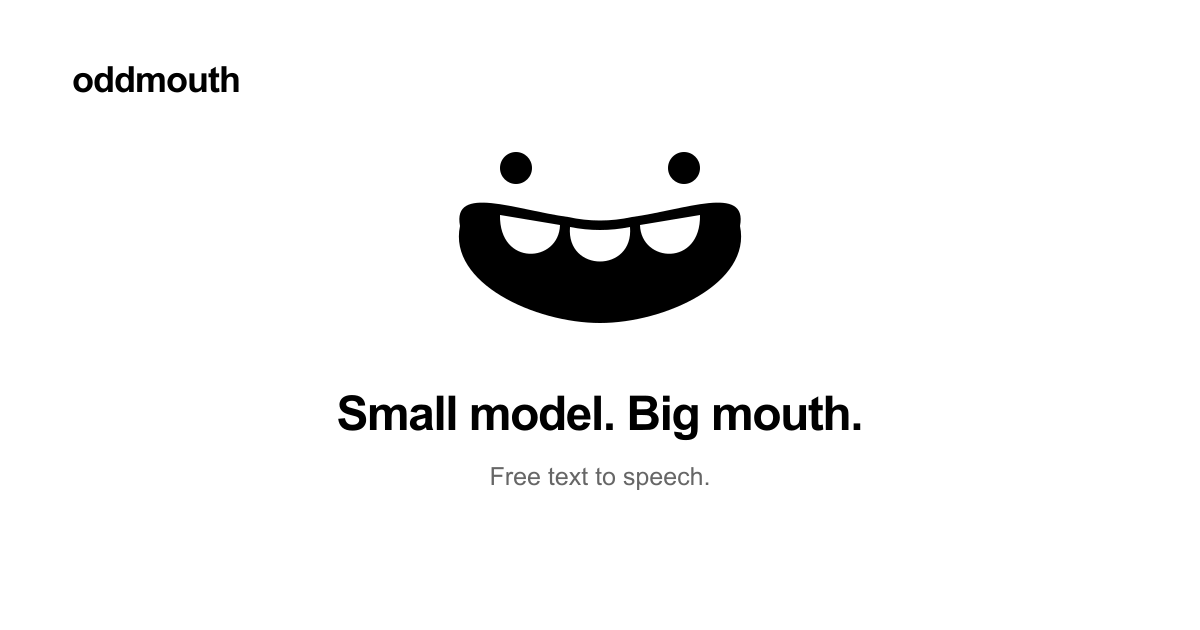
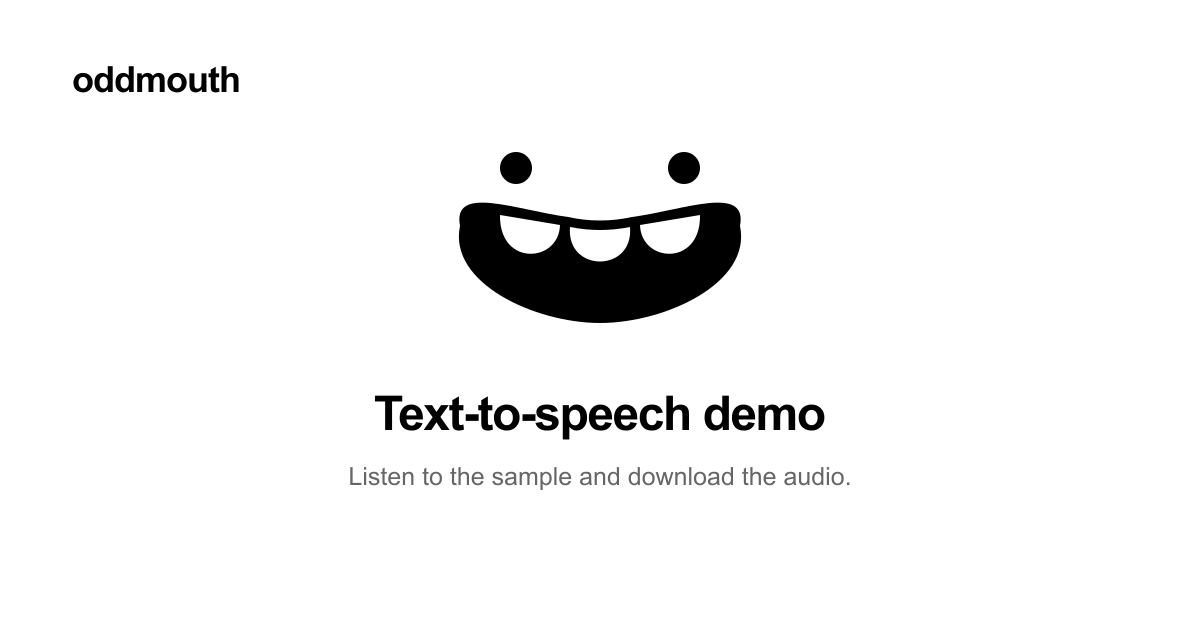
Prioritize the editor with compact character and a Generate demo button

Changed region(s): [[0.2775, 0.6032, 0.7092, 0.6937], [0.2775, 0.7238, 0.7092, 0.7841]]

diff --git a/web/app/globals.css b/web/app/globals.css
@@ -1,4 +1,4 @@
-:root{--ink:#111;--muted:#777;--line:#e8e8e8}*{box-sizing:border-box}html,body{margin:0;height:100%;background:#fff;color:var(--ink);font-family:Arial,Helvetica,sans-serif;-webkit-font-smoothing:antialiased}button,a,input,textarea{-webkit-tap-highlight-color:transparent}button,a{touch-action:manipulation}a{color:inherit;text-decoration:none}button{font:inherit;cursor:pointer}button:focus-visible,a:focus-visible,input:focus-visible{outline:2px solid #111;outline-offset:5px}textarea:focus-visible{outline:none}.site{height:100svh;display:grid;grid-template-rows:80px minmax(0,1fr);padding:0 48px;max-width:1600px;margin:0 auto}.header{display:flex;align-items:center;justify-content:space-between}.brand{font-size:24px;font-weight:800;letter-spacing:-1.2px;display:flex;align-items:center;gap:11px}.nav-links{display:flex;align-items:center;gap:24px}.nav-link,.about-button{border:0;background:none;padding:12px 0;font-size:14px}.nav-link:hover,.about-button:hover{text-decoration:underline;text-underline-offset:5px}main{min-height:0;overflow-y:auto;display:flex;align-items:safe center;justify-content:center;padding:18px 0}.workspace{width:min(100%,620px);text-align:center}.intro h1{font-size:clamp(24px,2.5vw,30px);font-weight:550;letter-spacing:-1px;line-height:1.14;margin:0 0 12px}.intro p{font-size:15px;line-height:1.5;color:var(--muted);margin:0}.character{height:206px;display:flex;align-items:center;justify-content:center;flex-direction:column;gap:9px;padding:14px 0 20px}.character>.mouth{width:210px;height:136px;flex-shrink:0}.still-mouth{display:none}.studio{text-align:left;border:1px solid #d8d8d8;border-radius:12px;overflow:hidden;background:#fff}.editor{padding:17px 22px 10px}.editor:focus-within{box-shadow:inset 0 0 0 1px #555}.editor-top,.editor-bottom{display:flex;justify-content:space-between;align-items:center}.editor-top label{font-size:14px;font-weight:600}.editor-top>span{font-size:11px;color:#777;border:1px solid #ddd;border-radius:4px;padding:3px 6px}textarea{display:block;width:100%;height:100px;min-height:72px;resize:none;border:0;background:transparent;padding:14px 0 5px;font:17px/1.65 Arial,Helvetica,sans-serif;color:#222;letter-spacing:-.2px}textarea::placeholder{color:#999}.editor-bottom{color:#888;font-size:11px}.text-button{border:0;background:none;color:#666;font-size:14px;padding:7px 0 7px 10px}.text-button:hover{color:#111}.player{border-top:1px solid var(--line);display:flex;align-items:center;gap:16px;padding:16px 22px}.play{border:1px solid #111;border-radius:50%;width:42px;height:42px;flex-shrink:0;display:grid;place-items:center;background:#111;color:white;transition:transform .15s}.play:hover{transform:scale(1.06)}.play svg{width:19px;height:19px}.track{flex:1;min-width:0;display:flex;flex-direction:column;gap:11px}.track-label{font-size:12px;display:flex;align-items:center;justify-content:space-between;gap:8px}.time{font-size:11px;color:#888;font-variant-numeric:tabular-nums}.track input{appearance:none;-webkit-appearance:none;height:3px;border-radius:4px;width:100%;margin:0;cursor:pointer}.track input::-webkit-slider-thumb{-webkit-appearance:none;width:10px;height:10px;background:#111;border-radius:50%;border:2px solid #fff;box-shadow:0 0 0 1px #111}.track input::-moz-range-thumb{width:8px;height:8px;background:#111;border-radius:50%;border:2px solid #fff}.download{border:1px solid #ddd;border-radius:6px;padding:10px 12px;display:flex;gap:7px;align-items:center;font-size:14px}.download:hover{border-color:#111;background:#fafafa}.download svg{width:16px;height:16px}.demo-note{font-size:11px;color:#888;margin:14px 0 0;line-height:1.6;min-height:18px}.about-dialog{border:1px solid #ddd;border-radius:14px;padding:28px;max-width:440px;width:calc(100% - 40px);color:#111;box-shadow:0 18px 90px #0002}.about-dialog::backdrop{background:#0004;backdrop-filter:blur(3px)}.dialog-top{display:flex;justify-content:space-between;align-items:center}.dialog-top .mouth{width:62px;height:42px}.dialog-top button{border:0;background:none;padding:8px;font-size:18px}.about-dialog h2{font-size:36px;line-height:1.05;letter-spacing:-1.5px;font-weight:550;margin:25px 0 18px}.about-dialog p{font-size:15px;line-height:1.7;color:#666}.about-dialog a{display:inline-block;margin-top:12px;font-size:14px;text-decoration:underline;text-underline-offset:5px}@media(max-width:650px){.site{padding:0 22px;grid-template-rows:68px minmax(0,1fr)}.brand{font-size:22px}.intro h1{font-size:24px;letter-spacing:-.8px}.intro p{font-size:14px}.character{height:191px}.character>.mouth{width:190px;height:128px}.editor{padding:15px 17px 9px}textarea{font-size:16px;height:110px}.player{padding:15px 17px;gap:13px}.download{padding:10px}.download span{display:none}.demo-note{font-size:11px;max-width:300px;margin:12px auto 0}}@media(max-height:740px){.site{grid-template-rows:62px minmax(0,1fr)}main{padding:12px 0}.character{height:143px;padding:8px 0 12px;gap:3px}.character>.mouth{height:103px;width:165px}.intro h1{font-size:24px;margin-bottom:7px}.intro p{font-size:14px}textarea{height:85px}.demo-note{margin-top:9px}}@media(prefers-reduced-motion:reduce){*{transition:none!important}.animated-mouth{display:none!important}.character .still-mouth{display:block}}
+:root{--ink:#111;--muted:#777;--line:#e8e8e8}*{box-sizing:border-box}html,body{margin:0;height:100%;background:#fff;color:var(--ink);font-family:Arial,Helvetica,sans-serif;-webkit-font-smoothing:antialiased}button,a,input,textarea{-webkit-tap-highlight-color:transparent}button,a{touch-action:manipulation}a{color:inherit;text-decoration:none}button{font:inherit;cursor:pointer}button:focus-visible,a:focus-visible,input:focus-visible{outline:2px solid #111;outline-offset:5px}textarea:focus-visible{outline:none}.site{height:100svh;display:grid;grid-template-rows:80px minmax(0,1fr);padding:0 48px;max-width:1600px;margin:0 auto}.header{display:flex;align-items:center;justify-content:space-between}.brand{font-size:24px;font-weight:800;letter-spacing:-1.2px;display:flex;align-items:center;gap:11px}.nav-links{display:flex;align-items:center;gap:24px}.nav-link,.about-button{border:0;background:none;padding:12px 0;font-size:14px}.nav-link:hover,.about-button:hover{text-decoration:underline;text-underline-offset:5px}main{min-height:0;overflow-y:auto;display:flex;align-items:flex-start;justify-content:center;padding:clamp(18px,4vh,40px) 0 24px}.workspace{width:min(100%,620px);text-align:center}.intro p{font-size:16px;line-height:1.7;color:#666;margin:0 auto;max-width:590px}.character{height:110px;display:flex;align-items:center;justify-content:center;flex-direction:column;gap:9px;padding:12px 0 16px}.character>.mouth{width:120px;height:78px;flex-shrink:0}.still-mouth{display:none}.studio{text-align:left;border:1px solid #d8d8d8;border-radius:12px;overflow:hidden;background:#fff}.editor{padding:17px 22px 10px}.editor:focus-within{box-shadow:inset 0 0 0 1px #555}.editor-top,.editor-bottom{display:flex;justify-content:space-between;align-items:center}.editor-top label{font-size:14px;font-weight:600}.editor-top>span{font-size:11px;color:#777;border:1px solid #ddd;border-radius:4px;padding:3px 6px}textarea{display:block;width:100%;height:100px;min-height:72px;resize:none;border:0;background:transparent;padding:14px 0 5px;font:17px/1.65 Arial,Helvetica,sans-serif;color:#222;letter-spacing:-.2px}textarea::placeholder{color:#999}.editor-bottom{color:#888;font-size:11px}.text-button{border:0;background:none;color:#666;font-size:14px;padding:7px 0 7px 10px}.text-button:hover{color:#111}.player{border-top:1px solid var(--line);display:flex;align-items:center;gap:16px;padding:16px 22px}.play{border:1px solid #111;border-radius:50%;width:42px;height:42px;flex-shrink:0;display:grid;place-items:center;background:#111;color:white;transition:transform .15s}.play:hover{transform:scale(1.06)}.play svg{width:19px;height:19px}.track{flex:1;min-width:0;display:flex;flex-direction:column;gap:11px}.track-label{font-size:12px;display:flex;align-items:center;justify-content:space-between;gap:8px}.time{font-size:11px;color:#888;font-variant-numeric:tabular-nums}.track input{appearance:none;-webkit-appearance:none;height:3px;border-radius:4px;width:100%;margin:0;cursor:pointer}.track input::-webkit-slider-thumb{-webkit-appearance:none;width:10px;height:10px;background:#111;border-radius:50%;border:2px solid #fff;box-shadow:0 0 0 1px #111}.track input::-moz-range-thumb{width:8px;height:8px;background:#111;border-radius:50%;border:2px solid #fff}.download{border:1px solid #ddd;border-radius:6px;padding:10px 12px;display:flex;gap:7px;align-items:center;font-size:14px}.download:hover{border-color:#111;background:#fafafa}.download svg{width:16px;height:16px}.demo-note{font-size:11px;color:#888;margin:14px 0 0;line-height:1.6;min-height:18px}.about-dialog{border:1px solid #ddd;border-radius:14px;padding:28px;max-width:440px;width:calc(100% - 40px);color:#111;box-shadow:0 18px 90px #0002}.about-dialog::backdrop{background:#0004;backdrop-filter:blur(3px)}.dialog-top{display:flex;justify-content:space-between;align-items:center}.dialog-top .mouth{width:62px;height:42px}.dialog-top button{border:0;background:none;padding:8px;font-size:18px}.about-dialog h2{font-size:36px;line-height:1.05;letter-spacing:-1.5px;font-weight:550;margin:25px 0 18px}.about-dialog p{font-size:15px;line-height:1.7;color:#666}.about-dialog a{display:inline-block;margin-top:12px;font-size:14px;text-decoration:underline;text-underline-offset:5px}@media(max-width:650px){.site{padding:0 22px;grid-template-rows:68px minmax(0,1fr)}.brand{font-size:22px}.intro p{font-size:14px}.character{height:96px}.character>.mouth{width:105px;height:68px}.editor{padding:15px 17px 9px}textarea{font-size:16px;height:110px}.player{padding:15px 17px;gap:13px}.download{padding:10px}.download span{display:none}.demo-note{font-size:11px;max-width:300px;margin:12px auto 0}}@media(max-height:740px){.site{grid-template-rows:62px minmax(0,1fr)}main{padding:12px 0}.character{height:86px;padding:8px 0 12px;gap:3px}.character>.mouth{height:62px;width:100px}.intro p{font-size:14px}textarea{height:85px}.demo-note{margin-top:9px}}@media(prefers-reduced-motion:reduce){*{transition:none!important}.animated-mouth{display:none!important}.character .still-mouth{display:block}}
 
 .living-mouth .eyes{transform:translate(var(--gaze-x,0px),var(--gaze-y,0px));transition:transform 100ms ease-out}.living-mouth .eye-blink{transform-box:fill-box;transform-origin:center;animation:blink 6.5s infinite}@keyframes blink{0%,44%,48%,100%{transform:scaleY(1)}46%{transform:scaleY(.08)}}@media(prefers-reduced-motion:reduce){.living-mouth .eyes{transform:none}.living-mouth .eye-blink{animation:none}}
 
@@ -7,3 +7,5 @@
 @keyframes idle-grin{0%,32%,66%,100%{transform:rotate(0deg) scale(1) translateY(0)}44%{transform:rotate(-3deg) scale(1.035,.98) translateY(-2px)}53%{transform:rotate(1.5deg) scale(1.015) translateY(0)}}
 @keyframes idle-wink{0%,39%,52%,100%{transform:scaleY(1)}44%,46%{transform:scaleY(.12)}}
 @media(prefers-reduced-motion:reduce){.idle-performance,.idle-mode .eye-right{animation:none}}
+
+.editor-bottom{gap:12px}.editor-actions{display:flex;align-items:center;gap:16px}.generate-button{border:1px solid #111;border-radius:6px;background:#111;color:white;font:500 14px Arial,Helvetica,sans-serif;padding:11px 16px;white-space:nowrap}.generate-button:hover{background:#333}.generate-button:disabled{background:#bbb;border-color:#bbb;cursor:not-allowed}@media(max-width:650px){.intro p{font-size:14px;line-height:1.65}.editor-actions{gap:10px}.generate-button{padding:10px 12px;font-size:13px}.editor-actions .text-button{font-size:12px;padding-left:0}}

diff --git a/web/app/page.tsx b/web/app/page.tsx
@@ -29,6 +29,15 @@ export default function Home() {
     catch { setError('Couldn’t play the sample. Try downloading it instead.'); }
   }
 
+  async function generateDemo() {
+    const player = audio.current;
+    if (!player) return;
+    player.currentTime = 0;
+    setTime(0);
+    try { await player.play(); setError(''); }
+    catch { setError('Couldn’t play the sample. Try downloading it instead.'); }
+  }
+
   function reset() {
     setText(SAMPLE);
     audio.current?.pause();
@@ -46,7 +55,7 @@ export default function Home() {
 
       <main>
         <div className="workspace">
-          <div className="intro"><h1>Small model. Big mouth.</h1><p>Free text to speech.</p></div>
+          <div className="intro"><p>Oddmouth is a free text-to-speech project for turning written words into spoken audio. Try the web demo, watch the character follow the voice, and download the five-second sample. Custom speech generation is coming next.</p></div>
           <div className={`character ${playing ? 'speaking' : ''}`}>
             <SpeakingMouth audio={audio} playing={playing} time={time} duration={duration} editing={editing} /><Mouth className="still-mouth" />
           </div>
@@ -55,7 +64,7 @@ export default function Home() {
             <div className="editor">
               <div className="editor-top"><label htmlFor="words">Your words</label><span>Demo</span></div>
               <textarea onFocus={() => setEditing(true)} onBlur={() => setEditing(false)} id="words" value={text} maxLength={1000} onChange={event => setText(event.target.value)} placeholder="Give me something to say." spellCheck={false} />
-              <div className="editor-bottom"><span>{text.length.toLocaleString()} / 1,000</span><button className="text-button" onClick={reset}>Reset sample</button></div>
+              <div className="editor-bottom"><span>{text.length.toLocaleString()} / 1,000</span><div className="editor-actions"><button className="text-button" onClick={reset}>Reset sample</button><button className="generate-button" onClick={generateDemo} disabled={!text.trim()} aria-describedby="demo-note">Generate demo</button></div></div>
             </div>
             <div className="player">
               <button className="play" onClick={playPause} aria-label={playing ? 'Pause demo' : 'Play demo'}>
@@ -66,7 +75,7 @@ export default function Home() {
             </div>
             <audio ref={audio} src="/audio/oddmouth-demo.wav" preload="metadata" onPlay={() => setPlaying(true)} onPause={event => { setPlaying(false); setTime(event.currentTarget.currentTime); }} onEnded={event => { setPlaying(false); setTime(event.currentTarget.currentTime); }} onTimeUpdate={event => setTime(event.currentTarget.currentTime)} onLoadedMetadata={event => { if (Number.isFinite(event.currentTarget.duration)) setDuration(event.currentTarget.duration); }} onError={() => setError('The sample couldn’t load. Please refresh and try again.')} />
           </section>
-          <p className="demo-note" role="status">{error || (edited ? 'Custom speech generation is not available yet.' : 'Demo recording. 5 seconds.')}</p>
+          <p id="demo-note" className="demo-note" role="status">{error || (edited ? 'Demo only. Plays the sample, not your edited text.' : 'Demo only. Plays a prerecorded five-second sample.')}</p>
         </div>
       </main>
 

diff --git a/web/app/layout.tsx b/web/app/layout.tsx
@@ -14,7 +14,7 @@ export const metadata: Metadata = {
     type: 'website', locale: 'en_US', siteName: 'Oddmouth',
     title: siteTitle, description: siteDescription,
     ...(siteUrl ? { url: siteUrl.href } : {}),
-    images: [{ url: '/social-card.png', width: 1200, height: 630, alt: 'Oddmouth. Small model. Big mouth. Free text to speech.' }],
+    images: [{ url: '/social-card.png', width: 1200, height: 630, alt: 'Oddmouth text-to-speech demo. Listen to a voice sample and download the audio.' }],
   },
   twitter: {
     card: 'summary_large_image', title: siteTitle, description: siteDescription,

diff --git a/web/README.md b/web/README.md
@@ -1,6 +1,6 @@
 # Oddmouth web
 
-A minimal black-and-white, single-screen Next.js App Router frontend for Oddmouth. Tagline: **Small model. Big mouth.**
+A minimal black-and-white, single-screen Next.js App Router frontend for Oddmouth.
 
 ## Develop
 
@@ -15,6 +15,8 @@ Open http://localhost:3000. For production, run `npm run build`; the static site
 ## Demo behavior
 
 - Editable text, a 1,000-character input limit, character count, and reset.
+- A black Generate demo button restarts and plays the prerecorded sample. It does not synthesize the entered text and is disabled when the input is blank.
+- A compact character and one descriptive introduction paragraph keep the editor near the top of the page.
 - A bundled five-second WAV, play/pause, seeking, replay, and download.
 - A vector face with eight sound-specific mouth poses, driven by audio-aligned cues extracted from the recording with Rhubarb Lip Sync. Pausing freezes the pose, seeking selects the matching sound, and silence/reset returns the smile. Alignment is automatic and approximate, not validated pronunciation instruction.
 - The eyes follow the pointer across the page, including during speech. The idle animation is a small grin tilt and a quick wink, followed by a quiet pause. It uses a smooth eight-second CSS loop, with no protruding mouth artwork or timed pose swaps. Focusing the editor stops idle expressions, and speech or paused speech cues take priority. Pointer listeners and playback animation frames are cleaned up on unmount; the idle animation needs no JavaScript timer.
